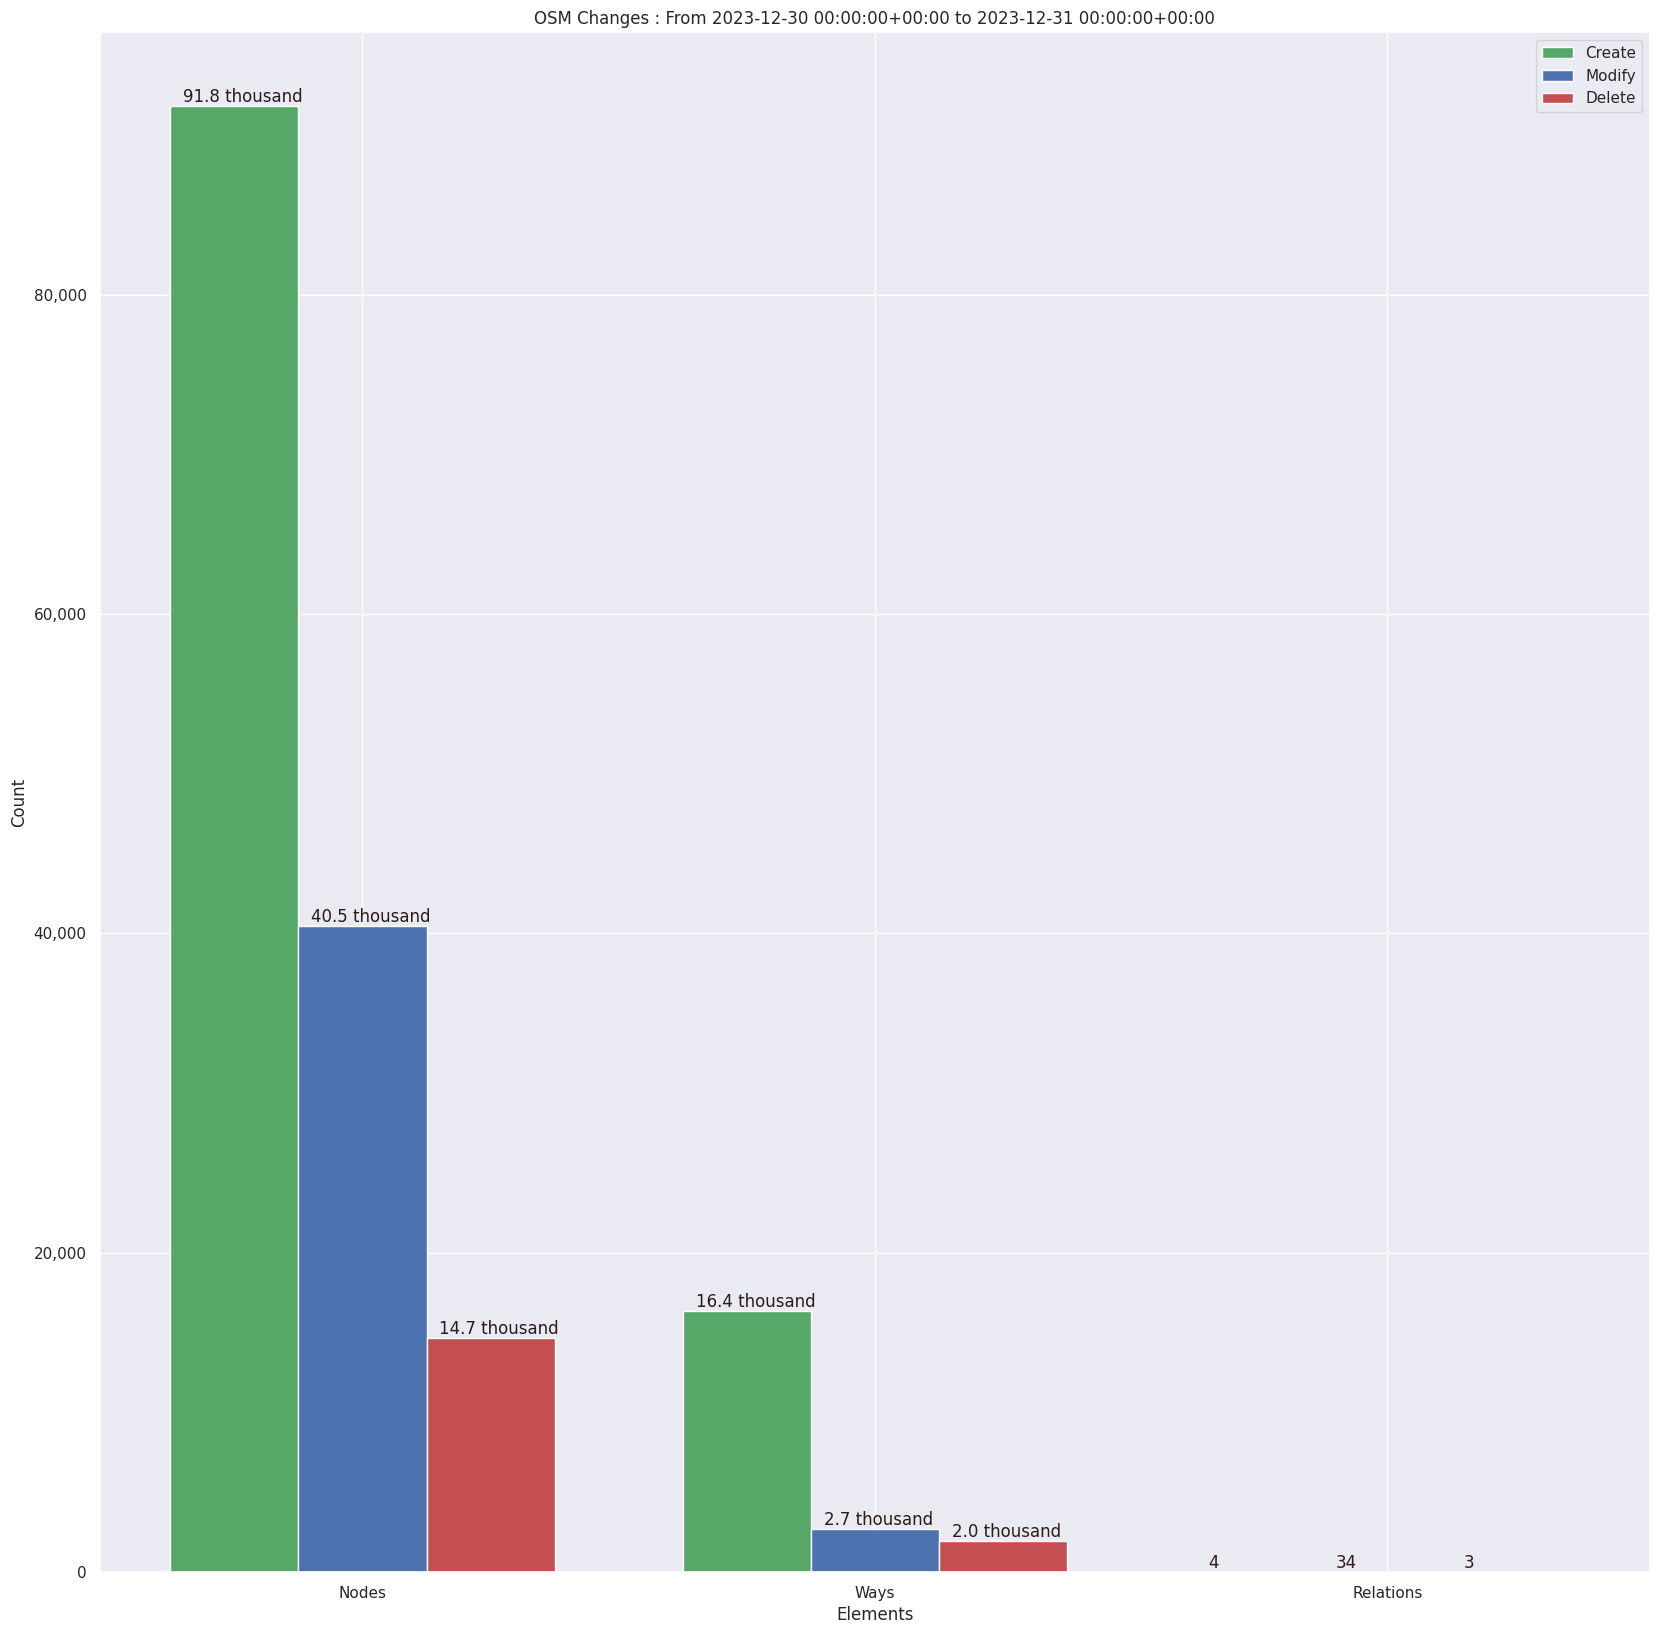
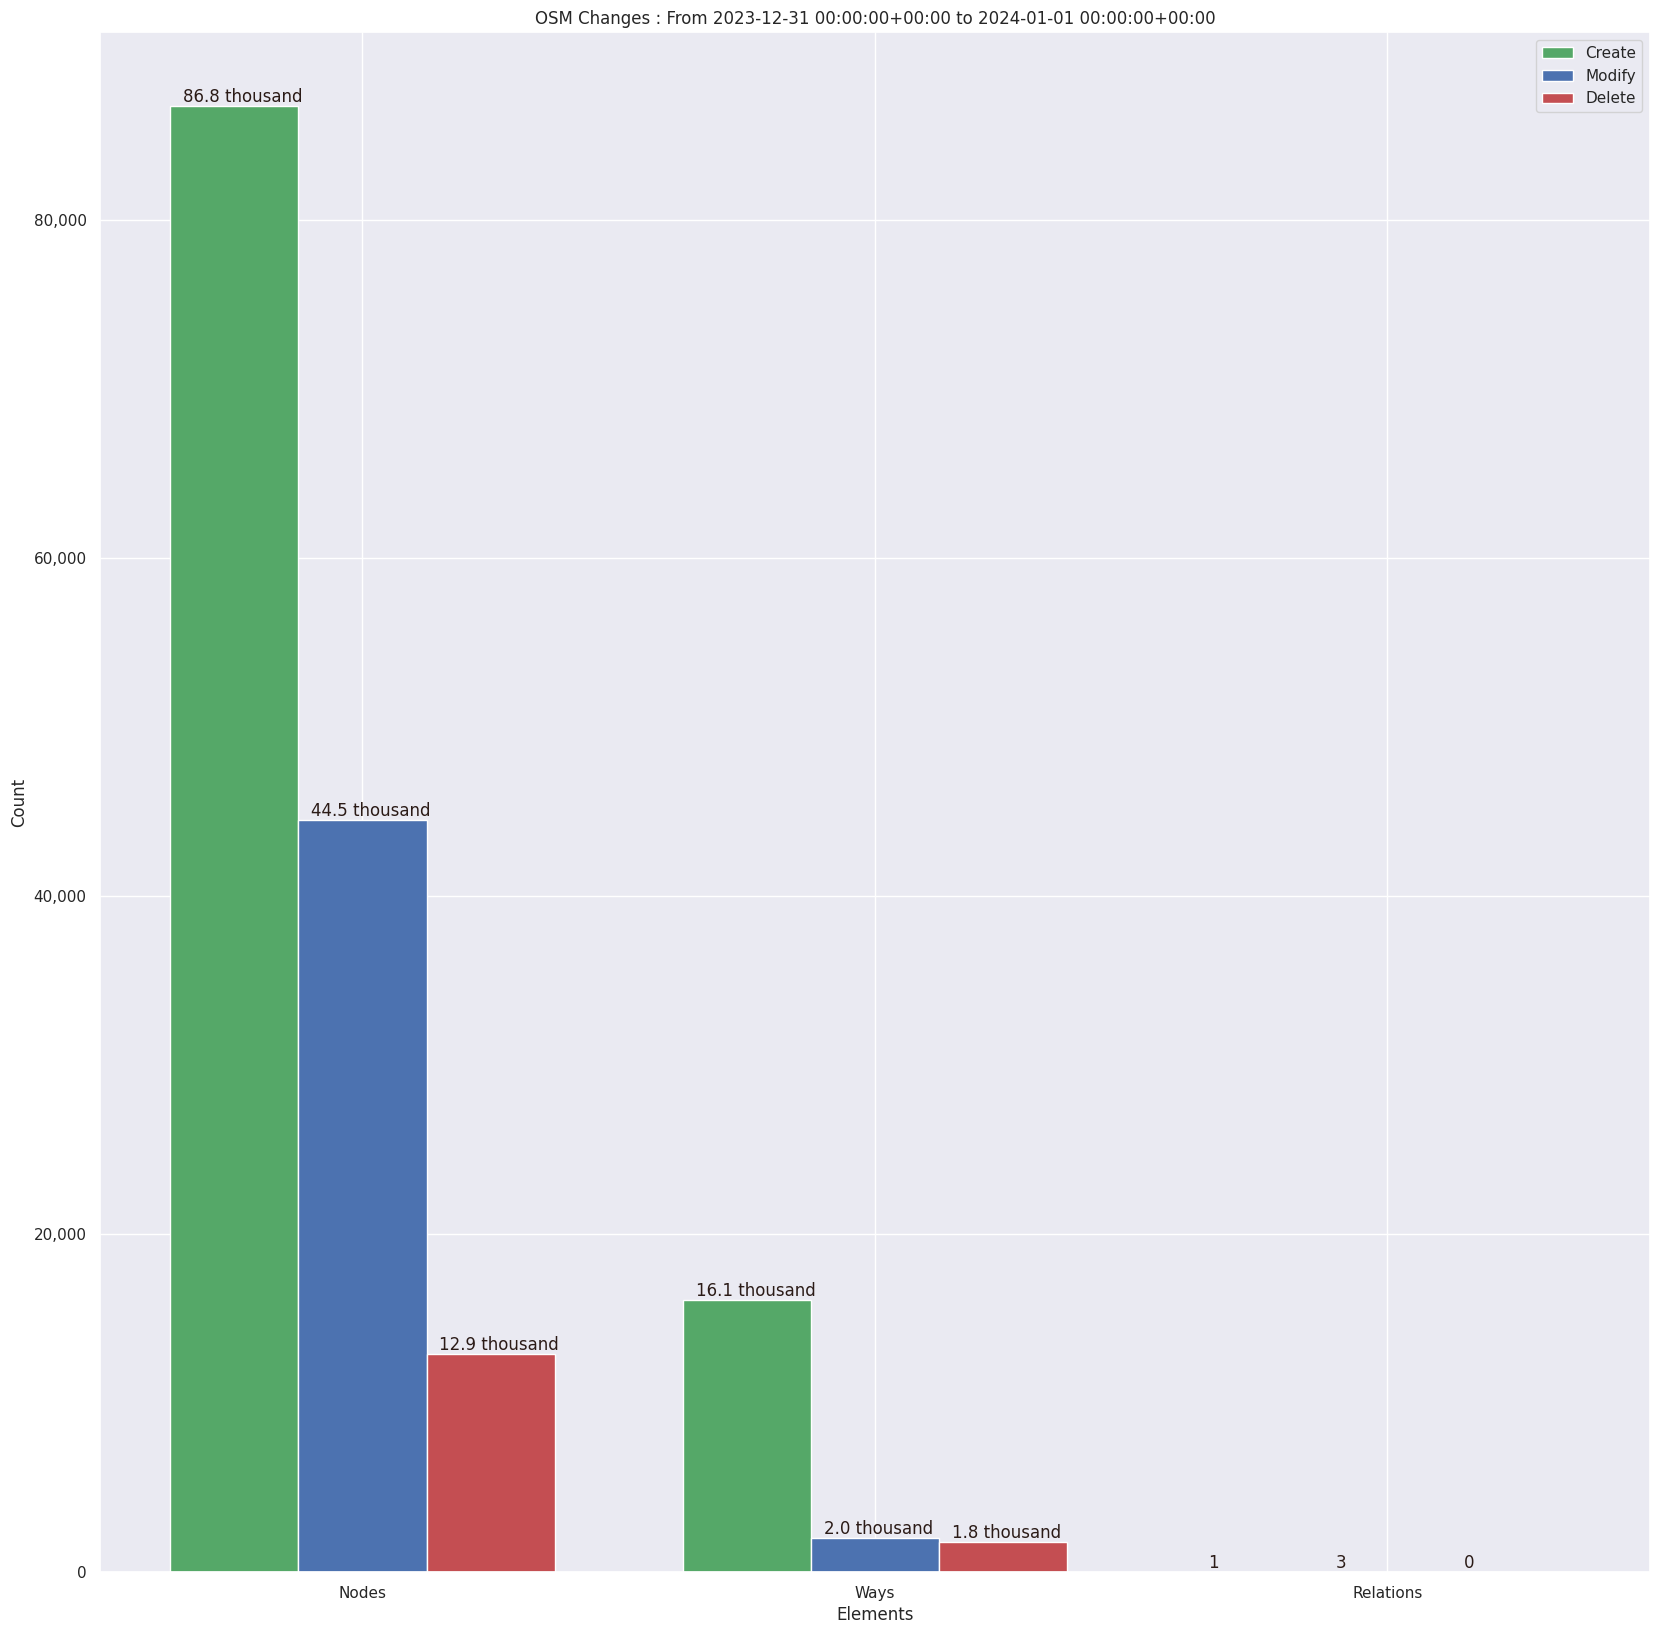
Updated Daily hotosm stats

diff --git a/stats/hotosm/Daily/Readme.md b/stats/hotosm/Daily/Readme.md
@@ -1,63 +1,63 @@
-### Last Update : Stats from 2023-12-30 00:00:00+00:00 to 2023-12-31 00:00:00+00:00 (UTC Timezone)
+### Last Update : Stats from 2023-12-31 00:00:00+00:00 to 2024-01-01 00:00:00+00:00 (UTC Timezone)
 
-#### 130 Users made 1.5 thousand changesets with 168.1 thousand map changes.
-#### 108.2 thousand OSM Elements were Created, 43.2 thousand Modified & 16.7 thousand Deleted.
+#### 120 Users made 929 changesets with 164.1 thousand map changes.
+#### 102.9 thousand OSM Elements were Created, 46.6 thousand Modified & 14.7 thousand Deleted.
 Get Full Stats at [stats.csv](/stats/hotosm/Daily/stats.csv)
  & Get Summary Stats at [stats_summary.csv](/stats/hotosm/Daily/stats_summary.csv)
 
 Top 5 Users are : 
-- jmsbert : 8.7 thousand Map Changes
-- TeBaMa : 7.5 thousand Map Changes
-- Patrik_B : 6.4 thousand Map Changes
-- Barajasss : 5.6 thousand Map Changes
-- Libor Bednarik : 5.0 thousand Map Changes
+- koos krijnders : 11.0 thousand Map Changes
+- Frans S : 10.0 thousand Map Changes
+- Libor Bednarik : 8.7 thousand Map Changes
+- Norbert Dichter : 7.6 thousand Map Changes
+- TeBaMa : 7.4 thousand Map Changes
 
 Summary of Supplied Tags
-- poi = Created: 41, Modified : 49
-- building = Created: 15.0 thousand, Modified : 1.6 thousand
-- highway = Created: 500, Modified : 716
-- waterway = Created: 94, Modified : 49
-- amenity = Created: 5, Modified : 18
+- poi = Created: 9, Modified : 62
+- building = Created: 15.0 thousand, Modified : 1.2 thousand
+- highway = Created: 373, Modified : 526
+- waterway = Created: 72, Modified : 59
+- amenity = Created: 2, Modified : 10
 
 
 Top 5 Created tags are :
 - building: 15.0 thousand
-- highway: 500
-- landuse: 445
-- seamark:type: 187
-- barrier: 156
+- highway: 373
+- source: 245
+- destroyed:building: 152
+- landuse: 136
 
 
 Top 5 Modified tags are :
-- building: 1.6 thousand
-- highway: 716
-- name: 271
-- landuse: 226
-- surface: 160
+- building: 1.2 thousand
+- highway: 526
+- surface: 140
+- name: 139
+- destroyed:building: 110
 
 
 Top 5 trending hashtags are:
-- #missingmaps : 38 users
-- #msf : 24 users
-- #moroccoearthquake2023 : 23 users
-- #hotosm-project-15476 : 17 users
-- #homabay2023 : 14 users
+- #missingmaps : 30 users
+- #msf : 22 users
+- #moroccoearthquake2023 : 21 users
+- #hotosm-project-15476 : 14 users
+- #homabay2023 : 12 users
 
 
 Top 5 trending editors are:
-- iD 2.21.1 : 65 users
-- JOSM/1.5 (18907 en) : 14 users
-- JOSM/1.5 (18822 en) : 11 users
-- JOSM/1.5 (18907 en_GB) : 5 users
+- iD 2.21.1 : 61 users
+- JOSM/1.5 (18907 en) : 11 users
+- JOSM/1.5 (18822 en) : 9 users
 - JOSM/1.5 (18907 nl) : 4 users
+- JOSM/1.5 (18907 en_GB) : 4 users
 
 
 Top 5 trending Countries where user contributed are:
-- Kenya : 25 users
-- Morocco : 23 users
-- Sudan : 12 users
-- Nepal : 11 users
-- India : 11 users
+- Kenya : 24 users
+- Morocco : 22 users
+- Nigeria : 9 users
+- India : 9 users
+- Nepal : 8 users
 
 
  Charts : 
